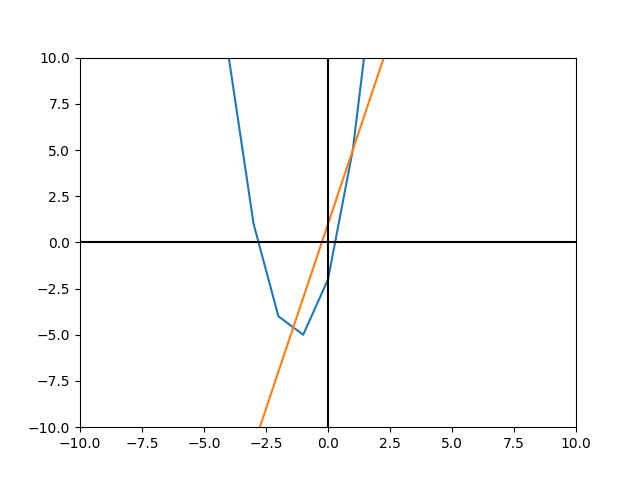
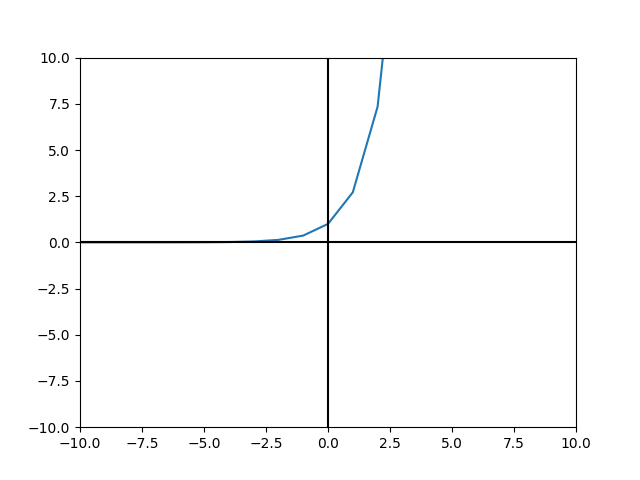
Avancez

diff --git a/funciones/main.py b/funciones/main.py
@@ -1,15 +1,37 @@
 from matplotlib import pyplot
-# Función cuadrática.
+
+e = 2.71
+
+# FUNCIONES CUADRATICAS.
 def f1(x):
-    return 2*(x**2) + 5*x - 2
-# Función lineal.
+    return 2*(x**2) 
 def f2(x):
-    return 4*x + 1
+    return 5*(x**2) 
+def f3(x):
+    return -15*(x**2)
+
+#FUNCIONES CUBICAS 
+def f4(x):
+    return (x**3)
+def f5(x):
+    return 4*(x**3)
+
+def f6(x):
+    return 0 if x == 0.0 else 2/x
+
+def f7(x):
+    return e**x 
 # Valores del eje X que toma el gráfico.
 x = range(-10, 15)
 # Graficar ambas funciones.
-pyplot.plot(x, [f1(i) for i in x])
-pyplot.plot(x, [f2(i) for i in x])
+#pyplot.plot(x, [f1(i) for i in x],label="f1")
+#pyplot.plot(x, [f2(i) for i in x],label = "f2")
+#pyplot.plot(x, [f3(i) for i in x],label = "f3")
+#pyplot.plot(x, [f4(i) for i in x],label = "f4")
+#pyplot.plot(x, [f5(i) for i in x],label = "f5")
+#pyplot.plot(x, [f6(i) for i in x],label = "f6")
+pyplot.plot(x, [f7(i) for i in x],label = "f7")
+
 # Establecer el color de los ejes.
 pyplot.axhline(0, color="black")
 pyplot.axvline(0, color="black")
@@ -18,5 +40,6 @@ pyplot.xlim(-10, 10)
 pyplot.ylim(-10, 10)
 # Guardar gráfico como imágen PNG.
 pyplot.savefig("output.png")
+pyplot.legend()
 # Mostrarlo.
 pyplot.show()
